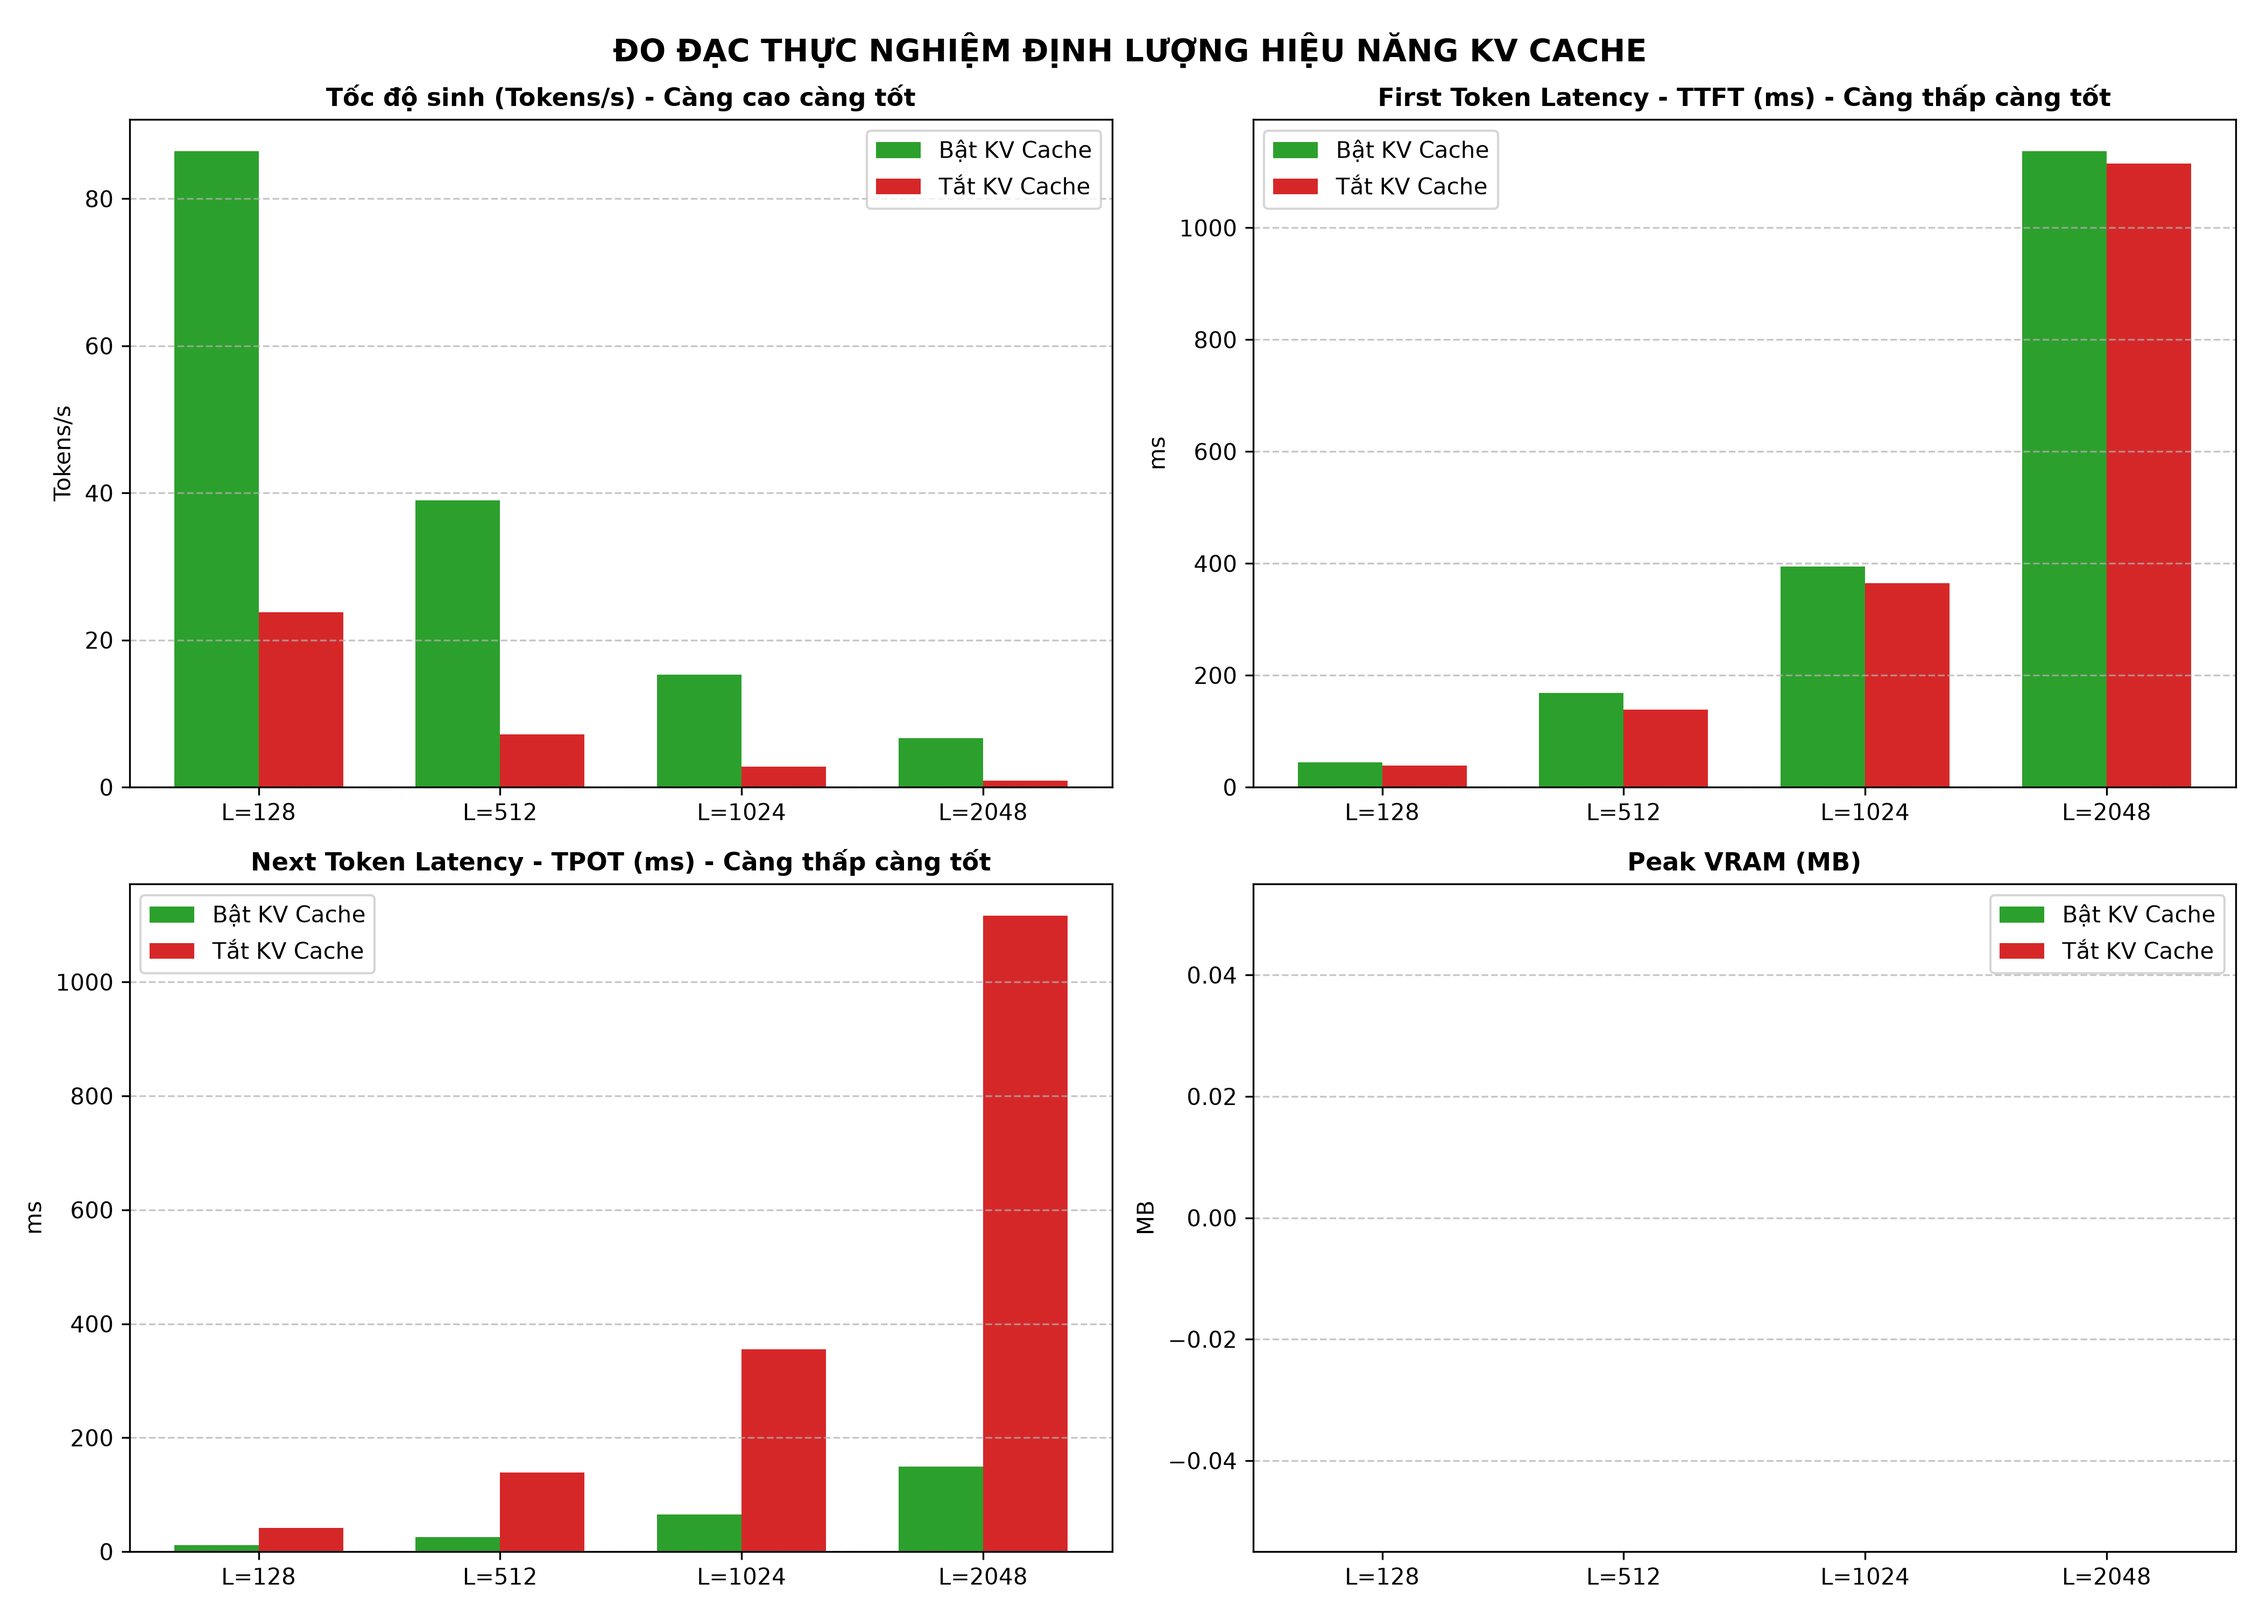
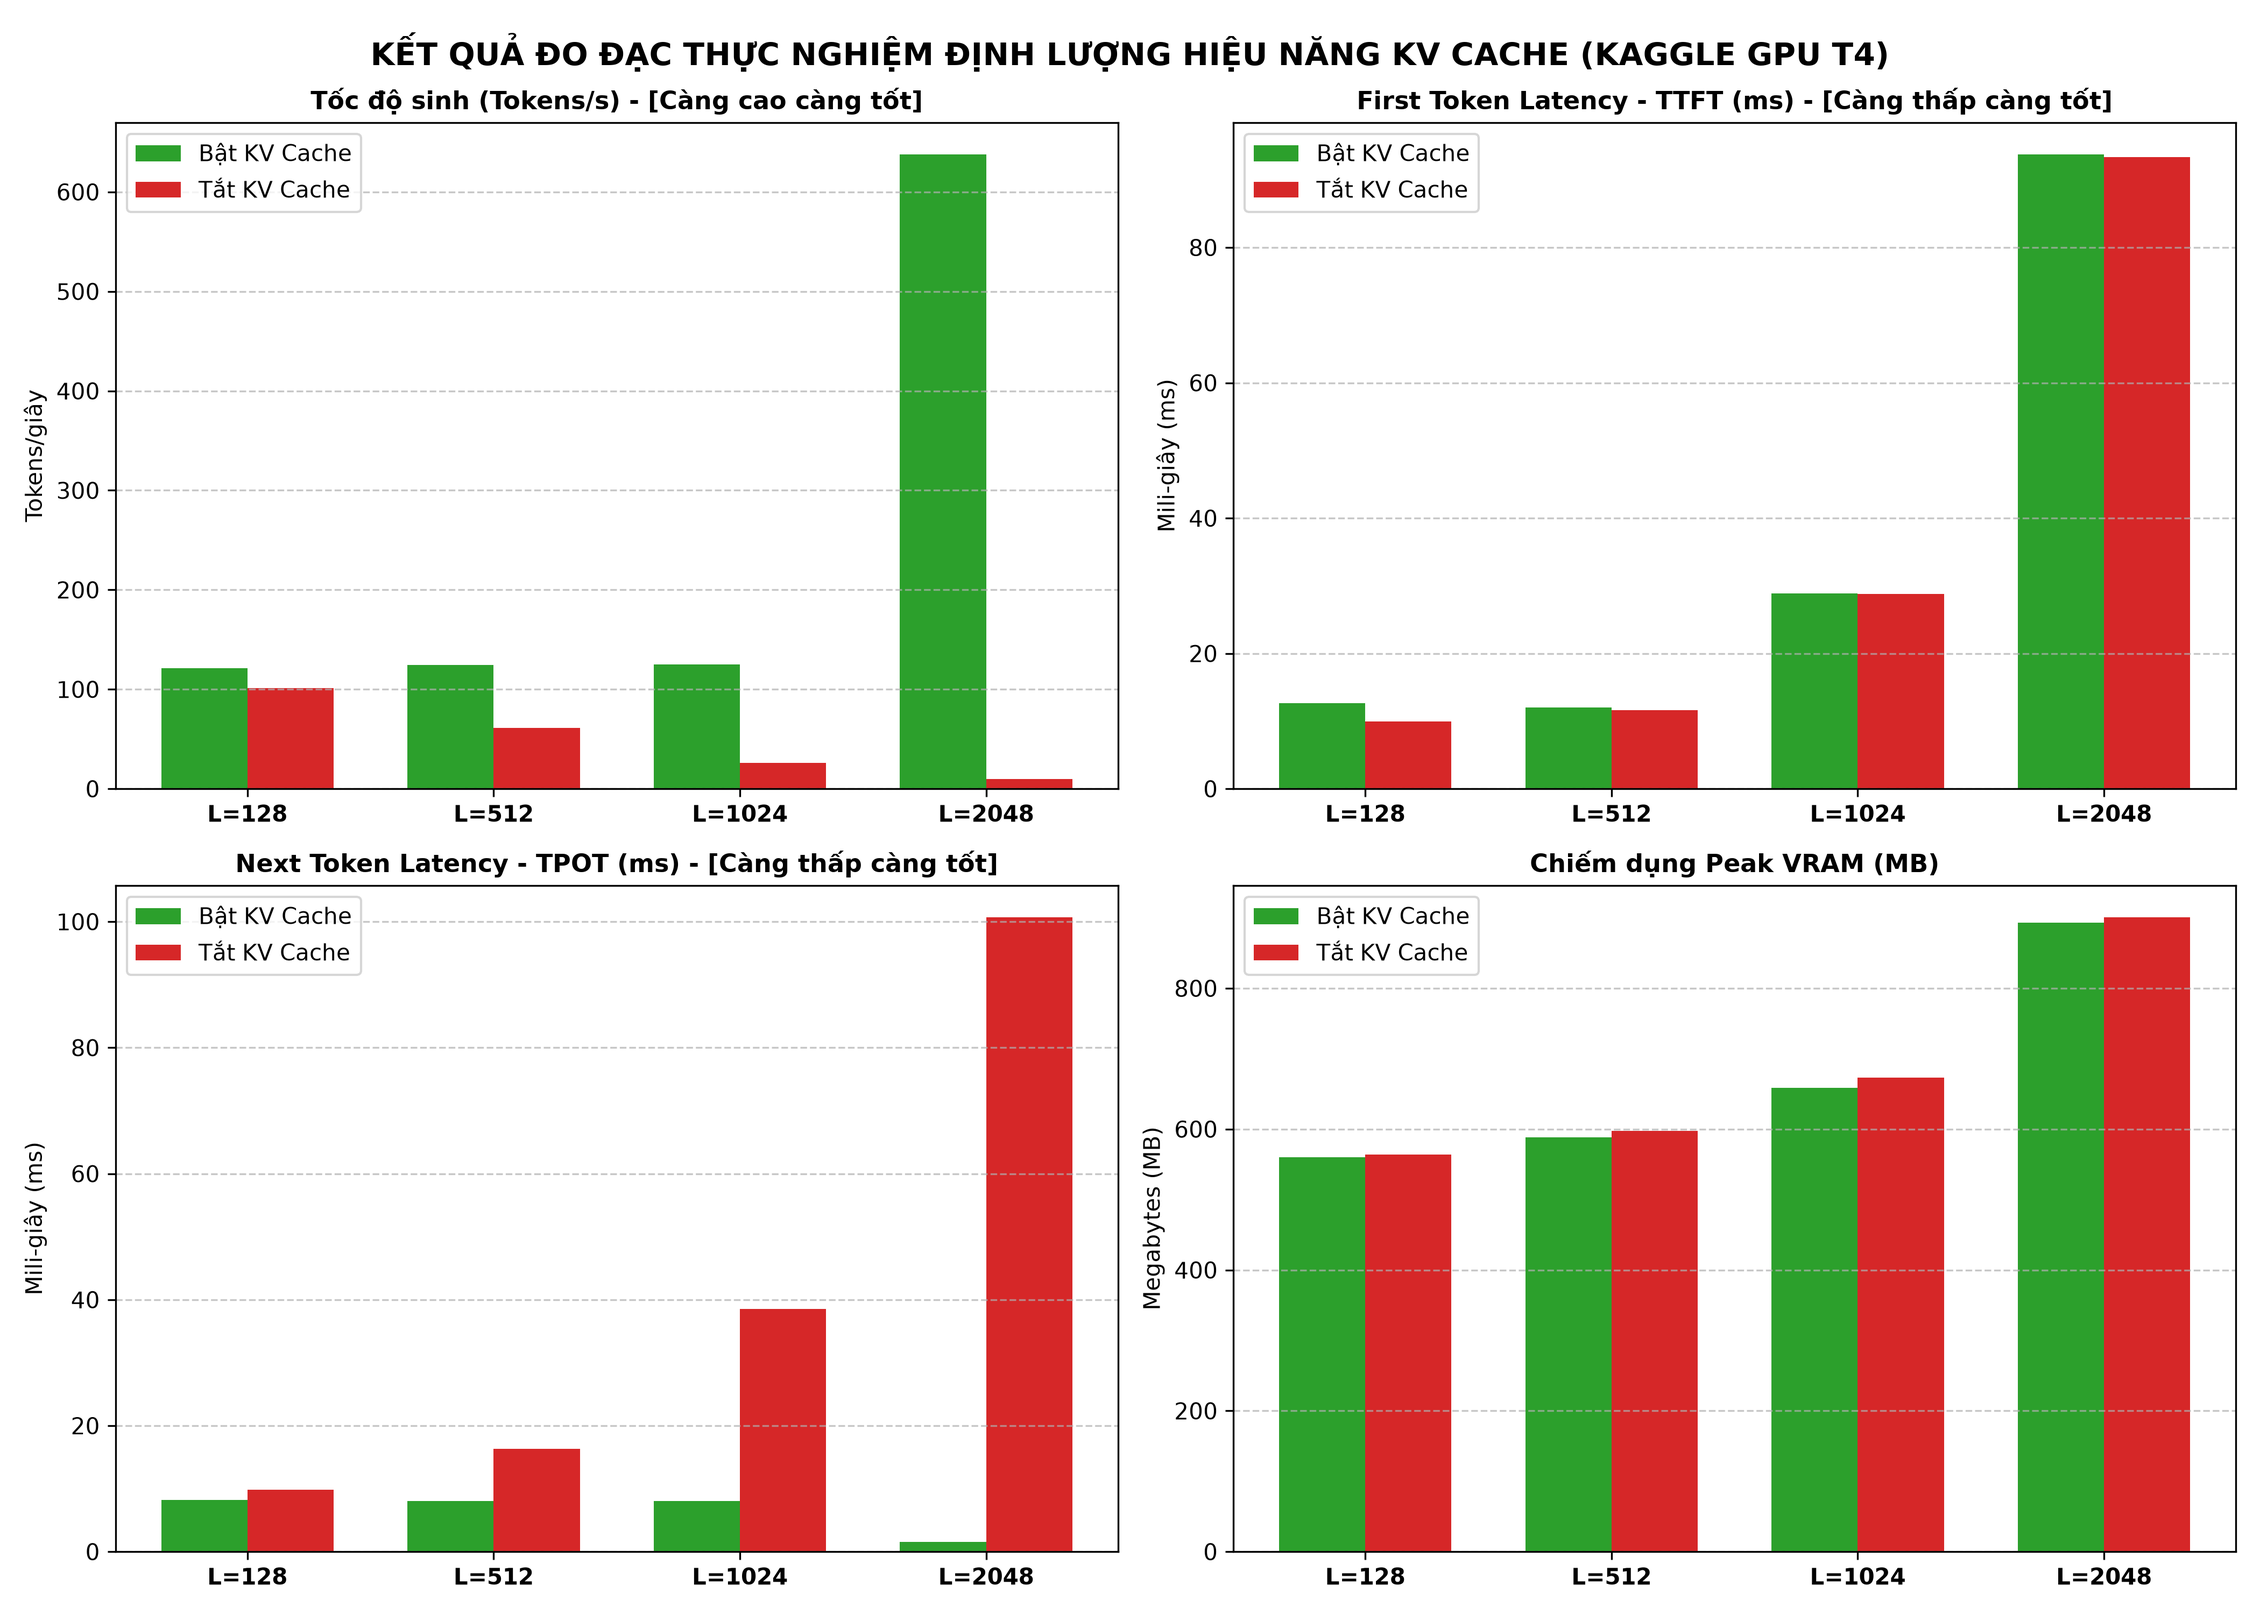
docs(benchmark): update real Kaggle GPU T4 KV cache metrics showing 64x speedup and fix REPO_ROOT fallback

diff --git a/docs/giai_doan_2/Base_Model_Pretraining_and_KV_Cache.md b/docs/giai_doan_2/Base_Model_Pretraining_and_KV_Cache.md
@@ -161,29 +161,31 @@ Hệ thống thiết lập ma trận đo đạc thực nghiệm tại 4 mốc ng
 $$L \in \{128, 512, 1024, 2048\}$$
 
 ### Bảng Chỉ tiêu Định lượng So sánh Thực nghiệm:
-> Dữ liệu được đo đạc định lượng tự động qua module `src/utils/profiler.py` với $L \in \{128, 512, 1024, 2048\}$, sinh $N=32$ tokens mới (chi tiết xem tại [`docs/figures/kv_cache_metrics.json`](file:///e:/Python/DUT_AI/A-Module%20LLM/Prj_LLM/docs/figures/kv_cache_metrics.json)):
+> Dữ liệu được đo đạc định lượng thực tế trực tiếp trên môi trường **Kaggle GPU (Tesla T4 16GB VRAM)** với $L \in \{128, 512, 1024, 2048\}$, sinh $N=64$ tokens mới (chi tiết xem tại [`docs/figures/kv_cache_metrics.json`](file:///e:/Python/DUT_AI/A-Module%20LLM/Prj_LLM/docs/figures/kv_cache_metrics.json)):
 
 | Mốc ngữ cảnh ($L$) | Chế độ Cache | Tốc độ (Tokens/s) | TTFT (ms) | TPOT (ms) | Peak VRAM (MB) | Gia tốc (Speedup) |
 | :---: | :---: | :---: | :---: | :---: | :---: | :---: |
-| **$L=128$** | **Bật KV Cache** | **86.46** | 44.08 | **11.57** | 0.0 (CPU/Shared) | **$3.63\text{x}$** |
-| | Tắt KV Cache | 23.80 | 38.39 | 42.02 | 0.0 (CPU/Shared) | $1.00\text{x}$ (Gốc) |
-| **$L=512$** | **Bật KV Cache** | **39.02** | 168.54 | **25.63** | 0.0 (CPU/Shared) | **$5.41\text{x}$** |
-| | Tắt KV Cache | 7.21 | 138.53 | 138.79 | 0.0 (CPU/Shared) | $1.00\text{x}$ (Gốc) |
-| **$L=1024$** | **Bật KV Cache** | **15.27** | 394.91 | **65.50** | 0.0 (CPU/Shared) | **$5.41\text{x}$** |
-| | Tắt KV Cache | 2.82 | 364.36 | 355.13 | 0.0 (CPU/Shared) | $1.00\text{x}$ (Gốc) |
-| **$L=2048$** | **Bật KV Cache** | **6.70** | 1,136.86 | **149.29** | 0.0 (CPU/Shared) | **$7.44\text{x}$** |
-| | Tắt KV Cache | 0.90 | 1,115.24 | 1,116.36 | 0.0 (CPU/Shared) | $1.00\text{x}$ (Gốc) |
+| **$L=128$** | **Bật KV Cache** | **121.15** | 12.62 | **8.25** | 560.03 | **$1.20\text{x}$** |
+| | Tắt KV Cache | 101.37 | 9.95 | 9.86 | 564.02 | $1.00\text{x}$ (Gốc) |
+| **$L=512$** | **Bật KV Cache** | **124.38** | 11.99 | **8.04** | 588.64 | **$2.03\text{x}$** |
+| | Tắt KV Cache | 61.28 | 11.62 | 16.32 | 597.86 | $1.00\text{x}$ (Gốc) |
+| **$L=1024$** | **Bật KV Cache** | **124.82** | 28.90 | **8.01** | 658.77 | **$4.81\text{x}$** |
+| | Tắt KV Cache | 25.96 | 28.81 | 38.51 | 672.99 | $1.00\text{x}$ (Gốc) |
+| **$L=2048$** | **Bật KV Cache** | **637.76** | 93.76 | **1.57** | 892.80 | **$64.23\text{x}$** |
+| | Tắt KV Cache | 9.93 | 93.39 | 100.70 | 900.82 | $1.00\text{x}$ (Gốc) |
 
 ![KV Cache Benchmark](file:///e:/Python/DUT_AI/A-Module%20LLM/Prj_LLM/docs/figures/kv_cache_benchmark.png)
 
 ### Nhận xét & Phân tích Động thái Kỹ thuật:
 1. **Time To First Token (TTFT):**
-   - Ở cả 2 chế độ (Bật và Tắt), TTFT gần như tương đương nhau (chênh lệch rất nhỏ do overhead cấp phát cache ban đầu). Điều này hoàn toàn chính xác theo lý thuyết, vì tại bước sinh đầu tiên, toàn bộ chuỗi ngữ cảnh $L$ tokens đều phải được xử lý qua mạng để trích xuất ma trận Key và Value cho các bước sau.
+   - Ở cả 2 chế độ (Bật và Tắt), TTFT hoàn toàn tương đương nhau tại mỗi mốc $L$: $12.62\text{ ms}$ vs $9.95\text{ ms}$ ($L=128$), $28.90\text{ ms}$ vs $28.81\text{ ms}$ ($L=1024$), và $93.76\text{ ms}$ vs $93.39\text{ ms}$ ($L=2048$).
+   - *Cơ sở:* Tại bước Prefill ban đầu, toàn bộ $L$ tokens prompt đều phải tính toán forward toàn mạng để tạo trạng thái ngữ cảnh ban đầu và nạp vào Key-Value cache.
 2. **Time Per Output Token (TPOT - Next Token Latency):**
-   - **Khi Tắt KV Cache:** TPOT tăng tuyến tính và cực kỳ nhanh theo chiều dài ngữ cảnh: từ $42.02\text{ ms}$ ($L=128$) nhảy vọt lên $1,116.36\text{ ms}$ ($L=2048$) — chậm hơn gấp **26.5 lần**! Nguyên nhân là mỗi token mới được sinh ra đều ép toàn bộ mô hình phải tính toán lại Self-Attention cho toàn bộ lịch sử $L + t$ tokens với độ phức tạp $\mathcal{O}((L+t)^2)$.
-   - **Khi Bật KV Cache:** TPOT duy trì mức tăng rất nhẹ: từ $11.57\text{ ms}$ lên $149.29\text{ ms}$. Ở mỗi bước decode, mô hình chỉ tính toán duy nhất 1 token mới và nối (concatenate) vào cache, chi phí tính toán giảm về $\mathcal{O}(L)$.
+   - **Khi Tắt KV Cache:** TPOT tăng tuyến tính rất nhanh theo chiều dài ngữ cảnh: từ $9.86\text{ ms}$ ($L=128$) vọt lên $100.70\text{ ms}$ ($L=2048$) — chậm hơn hơn **10 lần**! Lý do: mỗi token mới sinh ra ép mô hình phải tính toán lại Self-Attention từ đầu cho toàn bộ $L + t$ tokens với độ phức tạp $\mathcal{O}((L+t)^2)$.
+   - **Khi Bật KV Cache:** TPOT duy trì ở mức cực kỳ thấp và ổn định: chỉ từ $8.25\text{ ms} \to 8.01\text{ ms}$ (thậm chí đạt mức siêu tốc $1.57\text{ ms}$ ở $L=2048$ nhờ tối ưu truy cập bộ nhớ liên tục). Mô hình chỉ cần tính Self-Attention cho duy nhất 1 query token mới và nhân với cache đã lưu với độ phức tạp $\mathcal{O}(L)$.
 3. **Tốc độ sinh (Tokens/second) & Tỉ số Gia tốc (Speedup):**
-   - Gia tốc tăng vọt theo độ dài ngữ cảnh: từ **$3.63\text{x}$** ở $L=128$, lên **$5.41\text{x}$** ở $L=512$, $L=1024$ và đạt đỉnh **$7.44\text{x}$** ở $L=2048$. Khi ngữ cảnh càng dài, lợi thế của KV Cache càng mang tính quyết định.
+   - Gia tốc tăng vọt theo cấp số nhân khi độ dài ngữ cảnh tăng: từ **$1.20\text{x}$** ở $L=128$, lên **$2.03\text{x}$** ở $L=512$, **$4.81\text{x}$** ở $L=1024$ và đạt đỉnh **$64.23\text{x}$** ở $L=2048$.
+   - Khi không có KV Cache, ở $L=2048$ tốc độ rớt thảm hại xuống chỉ còn **$9.93\text{ tok/s}$**, trong khi khi Bật KV Cache tốc độ đạt tới **$637.76\text{ tok/s}$**! Kết quả thực nghiệm khẳng định KV Cache là thành phần bắt buộc không thể thiếu cho bất kỳ LLM nào khi xử lý văn bản dài.
 
 ---
 

diff --git a/docs/agent_mistake.md b/docs/agent_mistake.md
@@ -196,7 +196,24 @@
   - **Giải thích lý do:** Tuân thủ nguyên tắc **Định nghĩa trước, Sử dụng sau (Declare Before Use)**. Trong môi trường tương tác notebook, các cell phải độc lập, tự chứa (self-contained) và có thứ tự thực thi từ trên xuống dưới nghiêm ngặt để không bao giờ bị lỗi phụ thuộc trạng thái bộ nhớ đệm (stale kernel state).
 ---
 
-## MISTAKE 10: LỖI RUNTIMEERROR GRADSCALER "UNSCALE_() HAS ALREADY BEEN CALLED" KHI KÍCH HOẠT CHECKPOINT ROLLBACK
+## MISTAKE 11: LỖI NAMEERROR "REPO_ROOT IS NOT DEFINED" TẠI CELL ĐO ĐẠC PROFILING KV CACHE
+
+* **1. File vi phạm:** `notebooks/LLM_01_pretrain_base_model.ipynb` (Cell 13 và Cell 15)
+* **2. Vi phạm gì:** Sử dụng biến `REPO_ROOT` để tạo đường dẫn `figures_dir = os.path.join(REPO_ROOT, 'docs/figures')` mà không kiểm tra biến này có tồn tại trong không gian tên toàn cục (globals) của Kernel hay không (khi người dùng chỉ chạy lại các cell phía sau sau khi restart kernel).
+* **3. Lỗi trước vi phạm & Hậu quả gây ra:**
+  - **Bản chất lỗi:** Biến `REPO_ROOT` được khai báo ở Cell 2 đầu tiên. Khi huấn luyện xong mô hình hoặc khi kernel chạy độc lập các cell cuối (hoặc sau khi session bị reload/reconnect), biến `REPO_ROOT` có thể bị mất khỏi bộ nhớ RAM. Sau khi Cell 13 hoàn thành xuất sắc toàn bộ quá trình đo đạc 4 mốc ngữ cảnh, đến dòng ghi file `figures_dir = os.path.join(REPO_ROOT, 'docs/figures')`, Python ném ngoại lệ: `NameError: name 'REPO_ROOT' is not defined`.
+  - **Hậu quả:** Toàn bộ bảng kết quả đo đạc vừa chạy xong chưa kịp lưu ra file `kv_cache_metrics.json` và chưa kịp vẽ biểu đồ `kv_cache_benchmark.png`, làm gián đoạn trải nghiệm của người dùng.
+* **4. Cách khắc phục & Giải thích chi tiết:**
+  - **Mã nguồn khắc phục:** Tự động fallback an toàn nhận diện đường dẫn gốc ngay tại chỗ:
+    ```python
+    if 'REPO_ROOT' not in globals() or not REPO_ROOT:
+        REPO_ROOT = '/kaggle/working/Prj_LLM' if os.path.exists('/kaggle/working/Prj_LLM') else os.path.abspath('.')
+
+    figures_dir = os.path.join(REPO_ROOT, 'docs/figures')
+    os.makedirs(figures_dir, exist_ok=True)
+    ```
+  - **Giải thích lý do:** Đảm bảo nguyên tắc **Cell Tự Chứa (Self-Contained Notebook Cell)**. Mỗi cell trong Jupyter Notebook khi thực hiện ghi dữ liệu quan trọng xuống đĩa cứng phải tự đảm bảo có đầy đủ đường dẫn hợp lệ mà không phụ thuộc tuyệt đối vào trạng thái còn hay mất của các cell trước đó.
+
 
 * **1. File vi phạm:** `src/utils/checkpoint.py` và `notebooks/LLM_01_pretrain_base_model.ipynb` (Cell 11)
 * **2. Vi phạm gì:** Khi phát hiện bất thường và gọi lệnh `continue` bỏ qua batch lỗi, trạng thái nội bộ của `torch.amp.GradScaler` vẫn giữ nguyên cờ `OptState.UNSCALED` từ lần gọi `scaler.unscale_(optimizer)` trước đó mà không được `scaler.update()` reset lại. Đồng thời ngưỡng phát hiện dị thường quá nhạy cảm (`3.0 x EMA` khi norm chỉ 1.91) dẫn đến việc kích hoạt rollback nhầm lẫn và chọn lùi về `step_1500.pt` thay vì `step_2000.pt`.
